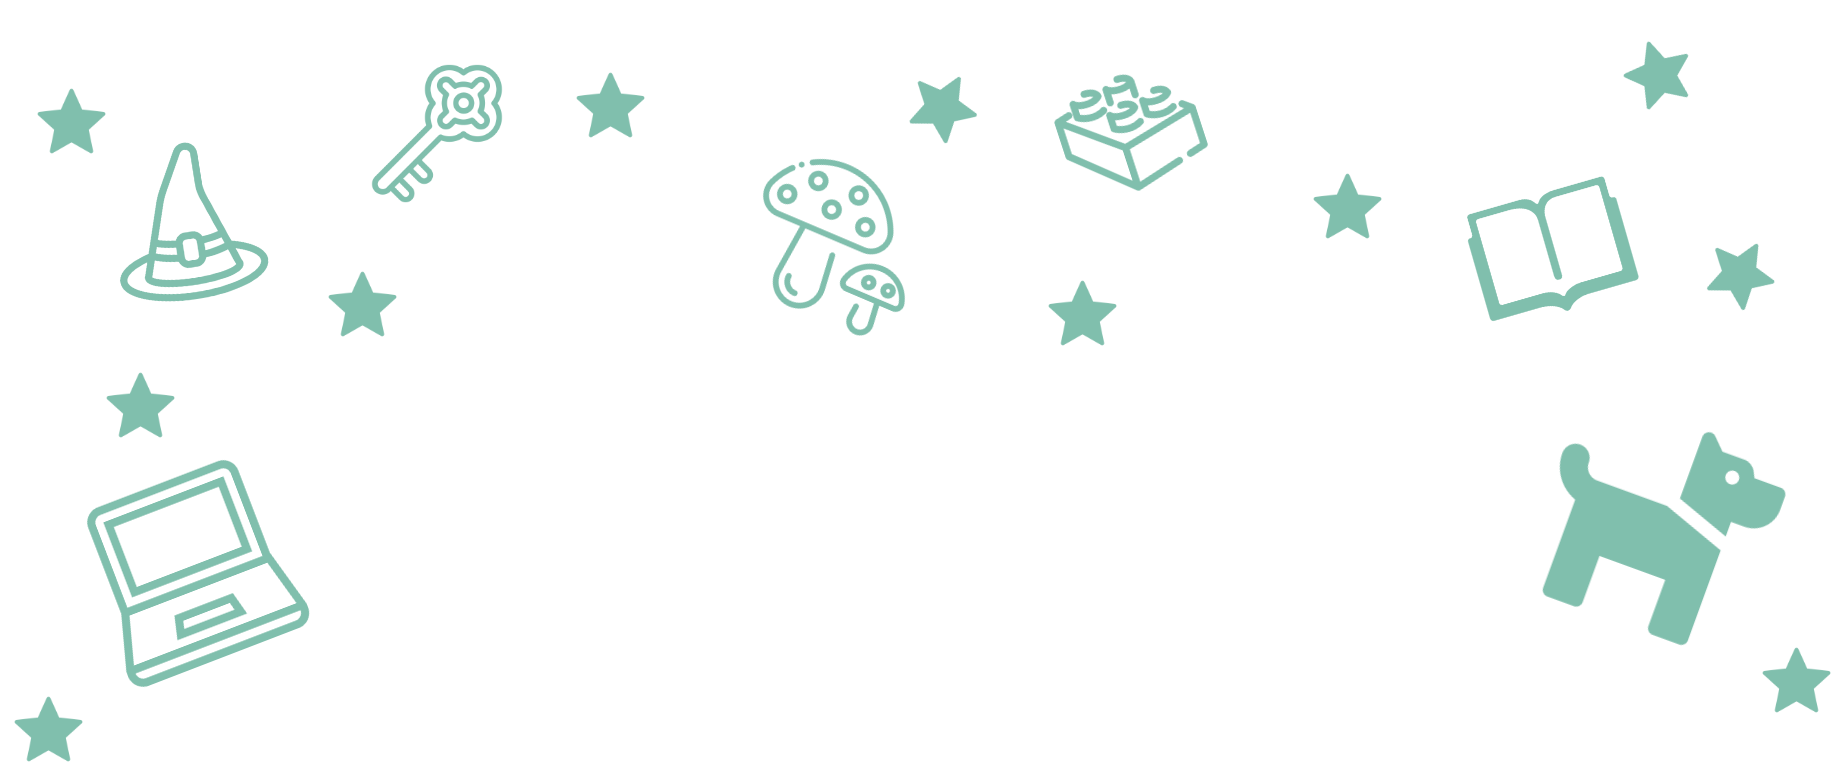
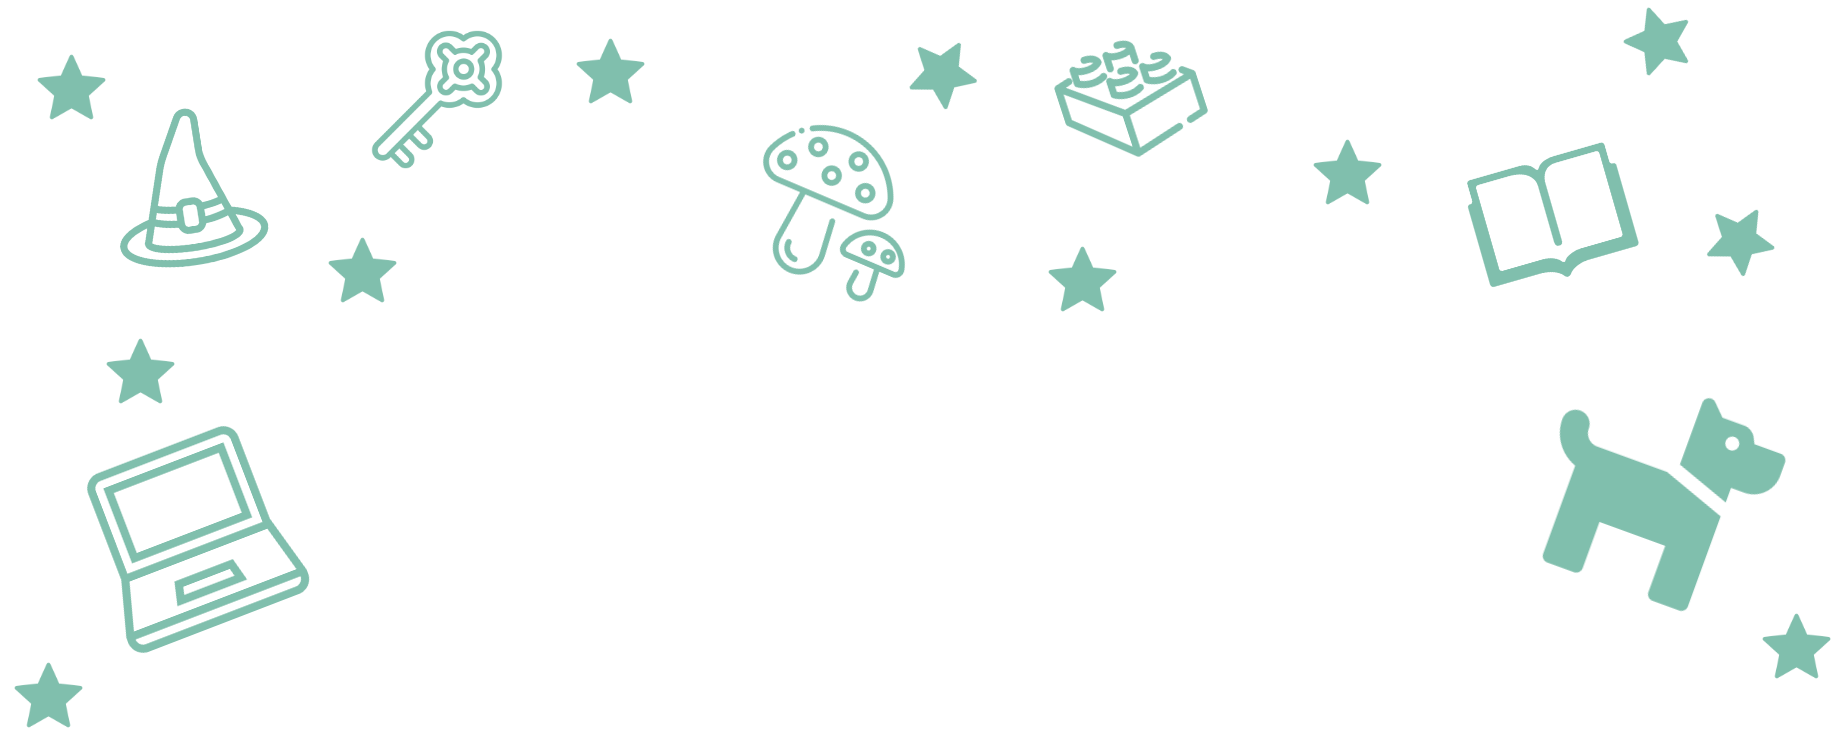
beginnen test responsive design

diff --git a/tales/index.html b/tales/index.html
@@ -10,51 +10,53 @@
 </head>
 <body>
 
-    <div class="container-fluid">
-        <h1>Sprookjes</h1>
-    </div>
+    
   
-    <nav class="navbar navbar-light bg-light fixed-top">
-        <div class="container-fluid">
-          <a class="navbar-brand" href="#">Offcanvas navbar</a>
-          <button class="navbar-toggler" type="button" data-bs-toggle="offcanvas" data-bs-target="#offcanvasNavbar" aria-controls="offcanvasNavbar">
-            <span class="navbar-toggler-icon"></span>
-          </button>
-          <div class="offcanvas offcanvas-end" tabindex="-1" id="offcanvasNavbar" aria-labelledby="offcanvasNavbarLabel">
-            <div class="offcanvas-header">
-              <h5 class="offcanvas-title" id="offcanvasNavbarLabel">Offcanvas</h5>
-              <button type="button" class="btn-close text-reset" data-bs-dismiss="offcanvas" aria-label="Close"></button>
-            </div>
-            <div class="offcanvas-body">
-              <ul class="navbar-nav justify-content-end flex-grow-1 pe-3">
-                <li class="nav-item">
-                  <a class="nav-link active" aria-current="page" href="#">Home</a>
-                </li>
-                <li class="nav-item">
-                  <a class="nav-link" href="#">Link</a>
-                </li>
-                <li class="nav-item dropdown">
-                  <a class="nav-link dropdown-toggle" href="#" id="offcanvasNavbarDropdown" role="button" data-bs-toggle="dropdown" aria-expanded="false">
-                    Dropdown
-                  </a>
-                  <ul class="dropdown-menu" aria-labelledby="offcanvasNavbarDropdown">
-                    <li><a class="dropdown-item" href="#">Action</a></li>
-                    <li><a class="dropdown-item" href="#">Another action</a></li>
-                    <li>
-                      <hr class="dropdown-divider">
-                    </li>
-                    <li><a class="dropdown-item" href="#">Something else here</a></li>
-                  </ul>
-                </li>
-              </ul>
-              <form class="d-flex">
-                <input class="form-control me-2" type="search" placeholder="Search" aria-label="Search">
-                <button class="btn btn-outline-success" type="submit">Search</button>
-              </form>
-            </div>
-          </div>
+  <nav class="navbar navbar-light bg-light fixed-top">
+    <div class="container-fluid">
+      <a class="navbar-brand" href="#">Offcanvas navbar</a>
+      <button class="navbar-toggler" type="button" data-bs-toggle="offcanvas" data-bs-target="#offcanvasNavbar" aria-controls="offcanvasNavbar">
+        <span class="navbar-toggler-icon"></span>
+      </button>
+      <div class="offcanvas offcanvas-end" tabindex="-1" id="offcanvasNavbar" aria-labelledby="offcanvasNavbarLabel">
+        <div class="offcanvas-header">
+          <h5 class="offcanvas-title" id="offcanvasNavbarLabel">Offcanvas</h5>
+          <button type="button" class="btn-close text-reset" data-bs-dismiss="offcanvas" aria-label="Close"></button>
         </div>
-    </nav>
+        <div class="offcanvas-body">
+          <ul class="navbar-nav justify-content-end flex-grow-1 pe-3">
+            <li class="nav-item">
+              <a class="nav-link active" aria-current="page" href="#">Home</a>
+            </li>
+            <li class="nav-item">
+              <a class="nav-link" href="#">Link</a>
+            </li>
+            <li class="nav-item dropdown">
+              <a class="nav-link dropdown-toggle" href="#" id="offcanvasNavbarDropdown" role="button" data-bs-toggle="dropdown" aria-expanded="false">
+                Dropdown
+              </a>
+              <ul class="dropdown-menu" aria-labelledby="offcanvasNavbarDropdown">
+                <li><a class="dropdown-item" href="#">Action</a></li>
+                <li><a class="dropdown-item" href="#">Another action</a></li>
+                <li>
+                  <hr class="dropdown-divider">
+                </li>
+                <li><a class="dropdown-item" href="#">Something else here</a></li>
+              </ul>
+            </li>
+          </ul>
+          <form class="d-flex">
+            <input class="form-control me-2" type="search" placeholder="Search" aria-label="Search">
+            <button class="btn btn-outline-success" type="submit">Search</button>
+          </form>
+        </div>
+      </div>
+    </div>
+</nav>
+
+    <h1> <br> Sprookjes</h1>
+    <p>hallo</p>
+
 
     <script
       src="https://cdn.jsdelivr.net/npm/bootstrap@5.1.3/dist/js/bootstrap.bundle.min.js"

diff --git a/styles.css b/styles.css
@@ -23,15 +23,15 @@ h1{
 }
 
 .tekeningen h1{
-	padding-top: 290px;
-	line-height: 250px;
-	font-size: 300px;
+	padding-top: 14vw;
+	line-height: 18vw;
+	font-size: 20vw;
 
 }
 
 .tekeningen{
 	background-image: url(images/achtergrond.png);
-	background-position: center;
+	background-position: top;
 	background-size: 90%;
 	background-repeat: no-repeat;
 	height: auto;
@@ -44,7 +44,7 @@ h2{
 	font-weight: 600;
 	text-align: center;
 	font-family: "Gloria Hallelujah";
-	text-indent: 400px;
+	text-indent: 25vw;
 	margin-top: -30px;
 	padding-top: 0px;
 	line-height: 26px;
@@ -52,6 +52,7 @@ h2{
 
 .tekeningen h2{
 	margin-top: 0px;
+	font-size: 2vw;
 }
 
 .blokjes{
@@ -154,7 +155,7 @@ li{
 
 a.navigatie{
 	text-decoration: none;
-	font-size: 30px;
+	font-size: 1.5vw;
 	font-family: "Gloria Hallelujah";
   	color: #F5F3F4;
 	margin: 0px;

diff --git a/projecten/build-a-city.html b/projecten/build-a-city.html
@@ -7,6 +7,7 @@
 		<link rel="preconnect" href="https://fonts.googleapis.com">
 		<link rel="preconnect" href="https://fonts.gstatic.com" crossorigin>
 		<link href="https://fonts.googleapis.com/css2?family=Are+You+Serious&family=Gloria+Hallelujah&display=swap" rel="stylesheet">
+        <meta name="viewport" content="width=device-width">
 	</head>
     <body>
         <header>

diff --git a/projecten/portfolio.html b/projecten/portfolio.html
@@ -7,6 +7,7 @@
 		<link rel="preconnect" href="https://fonts.googleapis.com">
 		<link rel="preconnect" href="https://fonts.gstatic.com" crossorigin>
 		<link href="https://fonts.googleapis.com/css2?family=Are+You+Serious&family=Gloria+Hallelujah&display=swap" rel="stylesheet">
+        <meta name="viewport" content="width=device-width">
 	</head>
     <body>
         <header>

diff --git a/contact.html b/contact.html
@@ -8,6 +8,7 @@
 		<link rel="preconnect" href="https://fonts.googleapis.com">
 		<link rel="preconnect" href="https://fonts.gstatic.com" crossorigin>
 		<link href="https://fonts.googleapis.com/css2?family=Are+You+Serious&family=Gloria+Hallelujah&display=swap" rel="stylesheet">
+        <meta name="viewport" content="width=device-width">
 	</head>
 
 	<body>

diff --git a/index.html b/index.html
@@ -8,6 +8,7 @@
 		<link rel="preconnect" href="https://fonts.googleapis.com">
 		<link rel="preconnect" href="https://fonts.gstatic.com" crossorigin>
 		<link href="https://fonts.googleapis.com/css2?family=Are+You+Serious&family=Gloria+Hallelujah&display=swap" rel="stylesheet">
+		<meta name="viewport" content="width=device-width">
 	</head>
 
 	<body>

diff --git a/over-mij.html b/over-mij.html
@@ -8,6 +8,7 @@
 		<link rel="preconnect" href="https://fonts.googleapis.com">
 		<link rel="preconnect" href="https://fonts.gstatic.com" crossorigin>
 		<link href="https://fonts.googleapis.com/css2?family=Are+You+Serious&family=Gloria+Hallelujah&display=swap" rel="stylesheet">
+		<meta name="viewport" content="width=device-width">
 	</head>
 
 	<body>

diff --git a/werkplekleren.html b/werkplekleren.html
@@ -8,6 +8,7 @@
 		<link rel="preconnect" href="https://fonts.googleapis.com">
 		<link rel="preconnect" href="https://fonts.gstatic.com" crossorigin>
 		<link href="https://fonts.googleapis.com/css2?family=Are+You+Serious&family=Gloria+Hallelujah&display=swap" rel="stylesheet">
+		<meta name="viewport" content="width=device-width">
 	</head>
 
 	<body>
